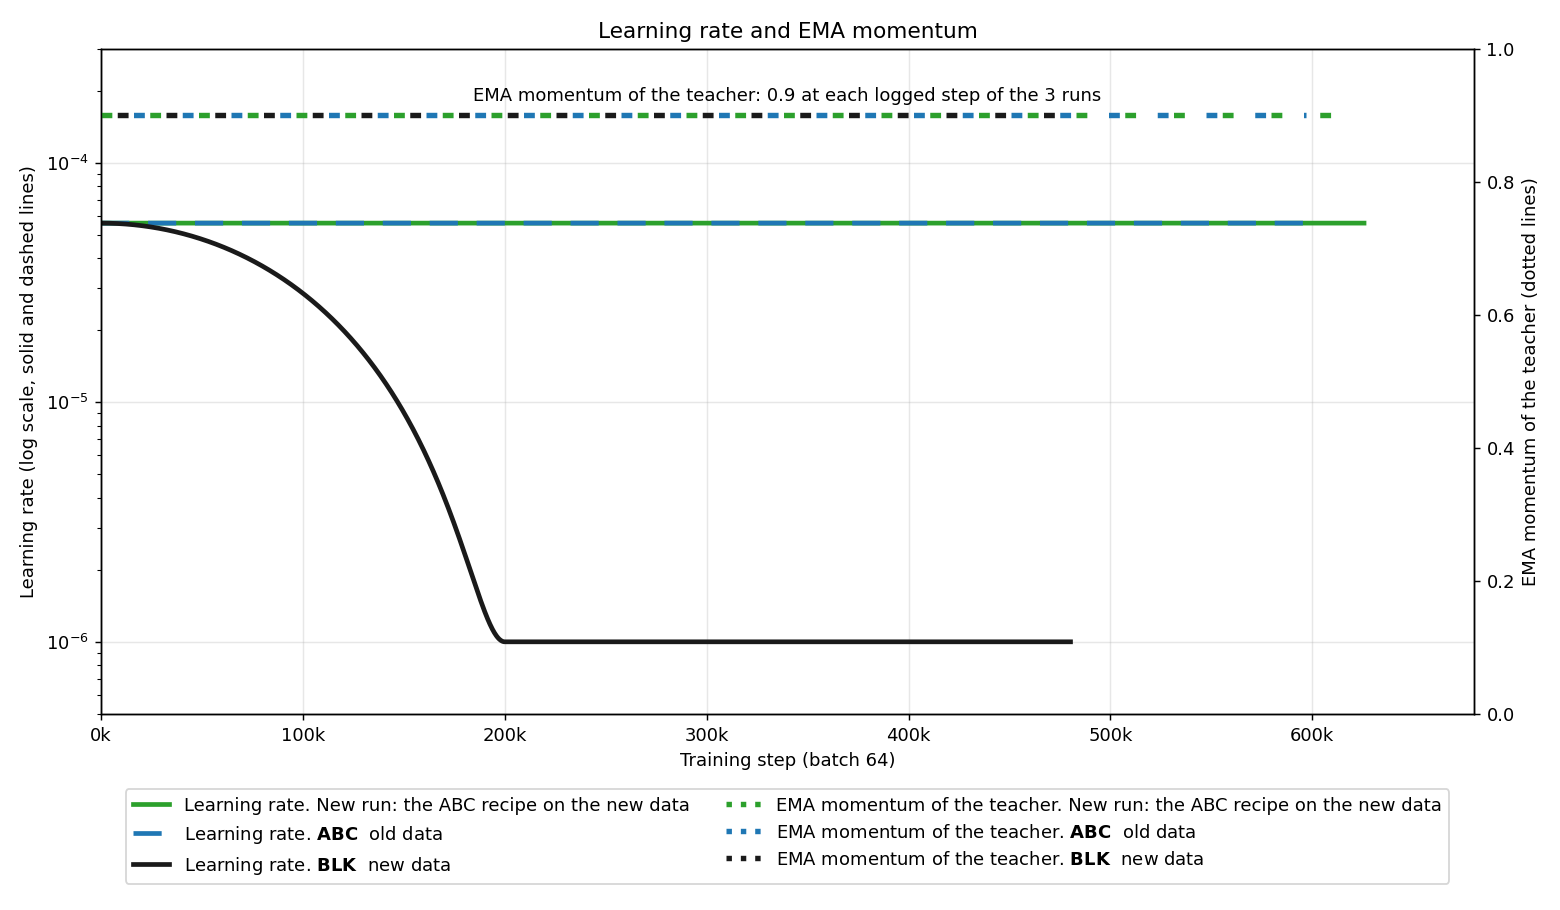
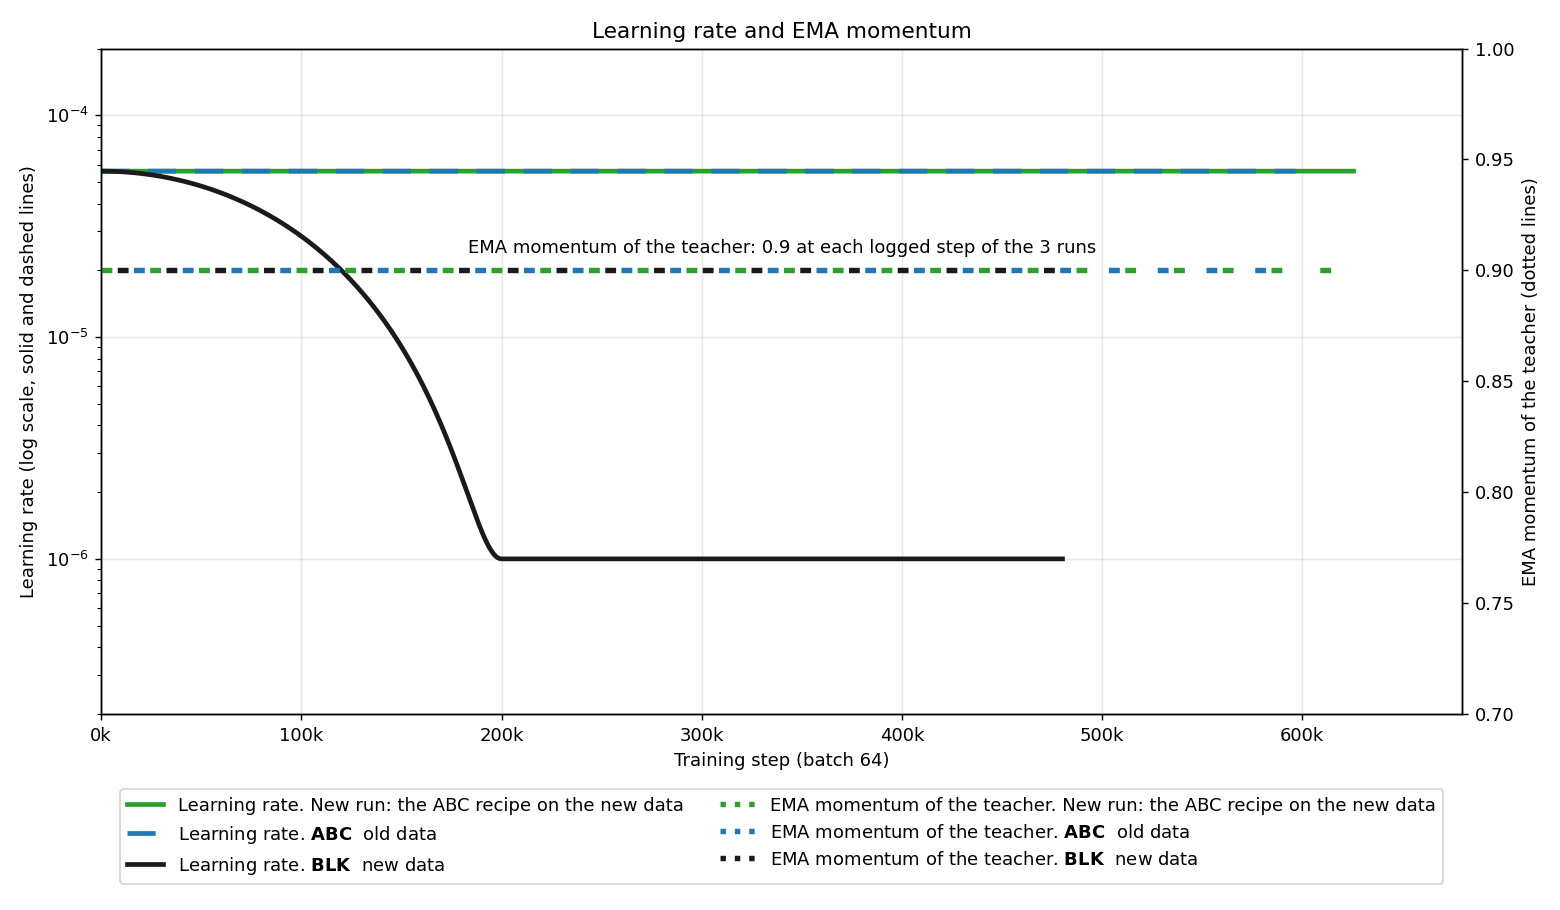
results(freq_family): the EMA axis of the schedule figure goes from 0.7 to 1.0

diff --git a/reports/2026-10-10_frequency_family_head/scripts/plot_schedules.py b/reports/2026-10-10_frequency_family_head/scripts/plot_schedules.py
@@ -66,7 +66,7 @@ def draw_lr(ax, ema):
         ax.plot(steps, lr_of(steps), color=colour_hex, ls=style, lw=2.6,
                 label=f"Learning rate. {label}")
     ax.set_yscale("log")
-    ax.set_ylim(5e-7, 3e-4)
+    ax.set_ylim(2e-7, 2e-4)
     ax.set_ylabel("Learning rate (log scale, solid and dashed lines)")
 
 
@@ -79,9 +79,9 @@ def draw_ema(ax, ema):
         ax.plot([first, last], [tau, tau], color=colour_hex, ls=(offset * 3, (2, 7)), lw=3.0)
         handles.append(Line2D([], [], color=colour_hex, ls=":", lw=3.0,
                               label=f"EMA momentum of the teacher. {label}"))
-    ax.text(340_000, 0.915, "EMA momentum of the teacher: 0.9 at each logged step of the 3 runs",
+    ax.text(340_000, 0.906, "EMA momentum of the teacher: 0.9 at each logged step of the 3 runs",
             ha="center", va="bottom", fontsize=10)
-    ax.set_ylim(0.0, 1.0)
+    ax.set_ylim(0.7, 1.0)
     ax.set_ylabel("EMA momentum of the teacher (dotted lines)")
     return handles
 
